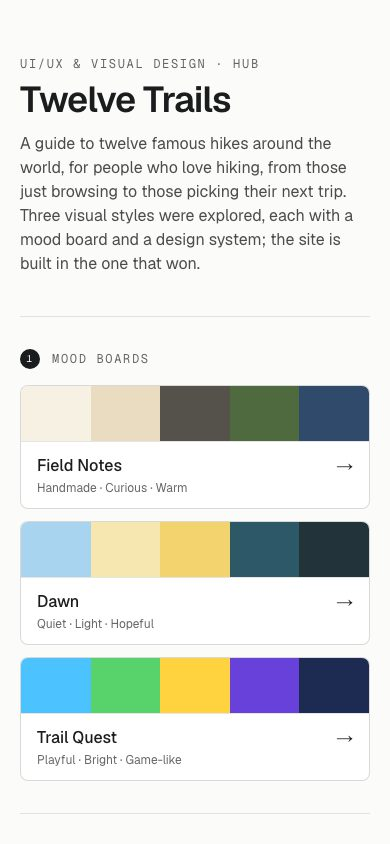
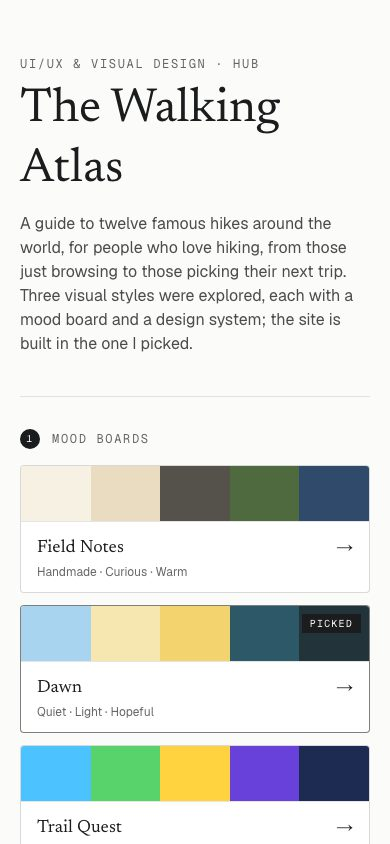
feat: hub leads with the pick and the site; picked tags; compact browser check

diff --git a/src/app/page.tsx b/src/app/page.tsx
@@ -1,12 +1,15 @@
 import Image from "next/image";
 import Link from "next/link";
-import { Caveat, Fredoka, Old_Standard_TT } from "next/font/google";
+import { Caveat, Fredoka, Newsreader, Old_Standard_TT } from "next/font/google";
 import { styles, type StyleId } from "@/data/styles";
 
 // Each style's own display face, so the design-system cards show their "Aa" truthfully.
 const caveat = Caveat({ subsets: ["latin"], weight: ["600"], variable: "--hub-fn" });
 const oldStandard = Old_Standard_TT({ subsets: ["latin"], weight: ["400"], variable: "--hub-dw" });
 const fredoka = Fredoka({ subsets: ["latin"], weight: ["700"], variable: "--hub-tq" });
+// The hub's own voice: a quiet book serif that belongs to none of the three styles, so none is favoured.
+const newsreader = Newsreader({ subsets: ["latin"], weight: ["400", "500"], style: ["normal", "italic"], variable: "--hub-serif" });
+const serif = "font-[family-name:var(--hub-serif)]";
 const FACE: Record<StyleId, string> = {
   "field-notes": "font-[family-name:var(--hub-fn)]",
   dawn: "font-[family-name:var(--hub-dw)]",
@@ -24,12 +27,13 @@ function Stripes({ colors }: { colors: string[] }) {
 }
 
 /** One card shape for every style link, so the three line up: a preview band, the name and arrow, one quiet line. */
-function StyleCard({ href, preview, name, note }: { href: string; preview: React.ReactNode; name: string; note: string }) {
+function StyleCard({ href, preview, name, note, picked = false }: { href: string; preview: React.ReactNode; name: string; note: string; picked?: boolean }) {
   return (
-    <Link href={href} className={card}>
+    <Link href={href} className={`${card} relative ${picked ? "border-black/50" : ""}`}>
+      {picked && <span className="absolute right-2 top-2 z-10 bg-foreground px-2 py-0.5 font-mono text-[10px] uppercase tracking-[0.12em] text-background">Picked</span>}
       {preview}
       <span className="flex items-baseline justify-between gap-3 px-4 pt-3">
-        <span className="whitespace-nowrap font-medium">{name}</span>
+        <span className={`${serif} whitespace-nowrap text-lg`}>{name}</span>
         <span aria-hidden="true" className="transition-transform group-hover:translate-x-0.5">→</span>
       </span>
       <span className="px-4 pb-3 pt-0.5 text-xs text-black/60">{note}</span>
@@ -49,13 +53,13 @@ function Section({ n, title, children }: { n: number; title: string; children: R
   );
 }
 
-// What was checked on the site, and what the check turned up. Kept to what was actually tried.
+// What was checked on the site, one line each. Kept to what was actually tried.
 const CHECKS: [string, string][] = [
-  ["Both widths", "Every page, hub to walk pages, fits at 1440 and at 390 with no sideways scrolling."],
-  ["Keyboard", "On the site, Tab reaches every link and button in reading order, and each shows Dawn's crop marks. Arrow keys move between tabs and along the route map."],
-  ["Search and filters", "Typing a walk, a country or a place on the way (\"Namche\", \"thorsmork\") narrows the cards at once; Clear empties it. Where and how long start on All, show how many walks each choice leaves, and Clear all brings all twelve back."],
-  ["My list", "Adding a walk updates the count on My list in the top bar; My list opens a side panel listing the walks, each with Remove, or an empty state. The list stays while moving between pages; a reload clears it: nothing is stored."],
-  ["Plates viewer", "Enter opens it on the chosen plate, arrow keys move, Esc closes it and focus returns to the print."],
+  ["Both widths", "Every page fits at 1440 and at 390, with no sideways scrolling."],
+  ["Keyboard", "Tab reaches every control in reading order and shows Dawn's crop marks; arrow keys move through tabs and the route map."],
+  ["Search and filters", "\"Namche\" and \"thorsmork\" find their walks; each filter shows how many walks it leaves; Clear all brings back twelve."],
+  ["My list", "Adding a walk lights up My list and its count; the side panel lists and removes walks; a reload clears it."],
+  ["Plates viewer", "Opens on the chosen plate; arrow keys move; Esc closes it and focus returns."],
 ];
 
 const SHOTS: [string, string][] = [
@@ -65,17 +69,20 @@ const SHOTS: [string, string][] = [
 ];
 
 const card =
-  "group flex h-full flex-col overflow-hidden rounded-lg border border-black/15 bg-white transition hover:border-black/40 hover:shadow-sm focus-visible:outline-2 focus-visible:outline-offset-2 focus-visible:outline-foreground active:translate-y-px";
+  "group flex h-full flex-col overflow-hidden rounded-sm border border-black/15 bg-white transition hover:border-black/40 hover:shadow-sm focus-visible:outline-2 focus-visible:outline-offset-2 focus-visible:outline-foreground active:translate-y-px";
+
+const button =
+  "inline-flex items-center gap-2 border border-foreground bg-foreground px-5 py-3 text-sm font-medium text-background transition hover:bg-black focus-visible:outline-2 focus-visible:outline-offset-2 focus-visible:outline-foreground active:translate-y-px";
 
 export default function Hub() {
   return (
-    <main className={`${caveat.variable} ${oldStandard.variable} ${fredoka.variable} mx-auto w-full max-w-3xl px-5 py-14`}>
+    <main className={`${caveat.variable} ${oldStandard.variable} ${fredoka.variable} ${newsreader.variable} mx-auto w-full max-w-4xl px-5 py-14`}>
       <p className="font-mono text-xs uppercase tracking-[0.14em] text-black/60">UI/UX &amp; Visual Design · Hub</p>
-      <h1 className="mt-2 text-4xl font-semibold tracking-tight">The Walking Atlas</h1>
-      <p className="mt-3 max-w-xl text-black/70">
+      <h1 className={`${serif} mt-2 text-5xl leading-tight`}>The Walking Atlas</h1>
+      <p className="mt-3 max-w-2xl text-black/70">
         A guide to twelve famous hikes around the world, for people who love hiking, from those just browsing to those
         picking their next trip. Three visual styles were explored, each with a mood board and a design system; the site is
-        built in the one that won.
+        built in the one I picked.
       </p>
 
       <div className="mt-10">
@@ -83,7 +90,7 @@ export default function Hub() {
           <ul className="grid gap-3 sm:grid-cols-3">
             {styles.map((s) => (
               <li key={s.id}>
-                <StyleCard href={`/mood-boards/${s.id}/`} preview={<Stripes colors={s.swatches} />} name={s.name} note={s.keywords.join(" · ")} />
+                <StyleCard href={`/mood-boards/${s.id}/`} picked={s.id === "dawn"} preview={<Stripes colors={s.swatches} />} name={s.name} note={s.keywords.join(" · ")} />
               </li>
             ))}
           </ul>
@@ -95,12 +102,13 @@ export default function Hub() {
               <li key={s.id}>
                 <StyleCard
                   href={`/design-systems/${s.id}/`}
+                  picked={s.id === "dawn"}
                   name={s.name}
                   note="Colour, type, components, states"
                   preview={
                     <span className="flex h-14 items-center justify-between border-b border-black/10 px-4" style={{ background: s.page }} aria-hidden="true">
                       <span className={`${FACE[s.id]} text-3xl leading-none`} style={{ color: s.ink }}>Aa</span>
-                      <span className="flex gap-1">
+                      <span className="flex gap-1 pr-14">
                         {s.swatches.slice(2, 5).map((c) => (
                           <span key={c} className="h-4 w-4 rounded-full border border-black/10" style={{ background: c }} />
                         ))}
@@ -114,44 +122,41 @@ export default function Hub() {
           <p className="mt-3 text-sm text-black/60">Each one is built from its mood board.</p>
         </Section>
 
-        <Section n={3} title="The site">
-          <Link
-            href="/trails/"
-            className="inline-flex rounded-full bg-foreground px-6 py-3 text-sm font-medium text-background transition hover:bg-black focus-visible:outline-2 focus-visible:outline-offset-2 focus-visible:outline-foreground active:translate-y-px"
-          >
-            Open The Walking Atlas →
-          </Link>
+        <Section n={3} title="My pick, and the site">
+          <div className="grid items-center gap-8 md:grid-cols-[1.25fr_1fr]">
+            <Link href="/trails/" aria-label="Open The Walking Atlas" className="group block border border-black/15 bg-white p-2 transition hover:border-black/40 hover:shadow-md focus-visible:outline-2 focus-visible:outline-offset-2 focus-visible:outline-foreground active:translate-y-px">
+              <Image src="/browser-check/trails-1440.jpg" alt="The Walking Atlas, its first screen at 1440 wide" width={1440} height={900} className="h-auto w-full" />
+            </Link>
+            <div>
+              <p className="font-mono text-xs uppercase tracking-[0.14em] text-black/60">Picked</p>
+              <h3 className={`${serif} mt-1 text-4xl`}>Dawn</h3>
+              <ol className="mt-4 space-y-3 text-black/80">
+                <li>
+                  <span className="font-medium text-foreground">The style and the subject are the same thing.</span> These are old, famous walks, and
+                  photochrom printers photographed four of them around 1900: the Milford Track, Mont Blanc, the West Highland Way and Half Dome. The site
+                  uses those real prints.
+                </li>
+                <li>
+                  <span className="font-medium text-foreground">The photos lead, and it reads quietly.</span> Plenty of space and plain controls let people
+                  take their time, whether they are just browsing or picking their next trip.
+                </li>
+              </ol>
+              <Link href="/trails/" className={`${button} mt-6`}>Open The Walking Atlas <span aria-hidden="true">→</span></Link>
+            </div>
+          </div>
         </Section>
 
-        <Section n={4} title="My pick and why">
-          <p className="text-black/80">
-            <span className="font-medium text-foreground">Dawn.</span> Two reasons:
-          </p>
-          <ol className="mt-3 list-decimal space-y-2 pl-5 text-black/80">
-            <li>
-              <span className="font-medium text-foreground">The style and the subject are the same thing.</span> These are old, famous walks, and photochrom
-              printers photographed four of them around 1900: the Milford Track, Mont Blanc, the West Highland Way and Half Dome. The site uses those
-              real prints.
-            </li>
-            <li>
-              <span className="font-medium text-foreground">The photos lead, and it reads quietly.</span> Pale colours, plenty of space and plain controls
-              let people take their time, whether they are just browsing or picking their next trip.
-            </li>
-          </ol>
-        </Section>
-
-        <Section n={5} title="Browser check">
+        <Section n={4} title="Browser check">
           <p className="text-sm text-black/60">Checked in Chrome at 1440 and 390 wide, and with the keyboard only.</p>
-          <ul className="mt-3 space-y-2 text-black/80">
+          <dl className="mt-3 divide-y divide-black/10 border-y border-black/10 text-sm">
             {CHECKS.map(([what, result]) => (
-              <li key={what} className="grid gap-x-4 sm:grid-cols-[9rem_1fr]">
-                <span className="text-sm font-medium text-foreground">{what}</span>
-                <span>{result}</span>
-              </li>
+              <div key={what} className="grid gap-x-4 py-2 sm:grid-cols-[9rem_1fr]">
+                <dt className="font-medium text-foreground">{what}</dt>
+                <dd className="text-black/75">{result}</dd>
+              </div>
             ))}
-          </ul>
-          <p className="mt-5 text-sm font-medium text-foreground">Screenshots</p>
-          <p className="text-sm text-black/60">The first screen of each page, at 1440 and at 390. Open one to see it full size.</p>
+          </dl>
+          <p className="mt-5 text-sm text-black/60">The first screen of each page, at 1440 and at 390. Open one to see it full size.</p>
           <ul className="mt-3 flex flex-wrap gap-x-6 gap-y-4">
             {SHOTS.map(([file, name]) => (
               <li key={file}>
@@ -164,9 +169,9 @@ export default function Hub() {
                       target="_blank"
                       rel="noreferrer"
                       aria-label={`${name} at ${w} wide, full size`}
-                      className="block rounded border border-black/15 transition hover:border-black/40 focus-visible:outline-2 focus-visible:outline-offset-2 focus-visible:outline-foreground"
+                      className="block border border-black/15 transition hover:border-black/40 focus-visible:outline-2 focus-visible:outline-offset-2 focus-visible:outline-foreground"
                     >
-                      <Image src={`/browser-check/${file}-${w}.jpg`} alt="" width={w === 1440 ? 1440 : 390} height={w === 1440 ? 900 : 844} className="h-28 w-auto rounded" />
+                      <Image src={`/browser-check/${file}-${w}.jpg`} alt="" width={w === 1440 ? 1440 : 390} height={w === 1440 ? 900 : 844} className="h-28 w-auto" />
                     </a>
                   ))}
                 </span>

diff --git a/log.md b/log.md
@@ -80,3 +80,4 @@
 - 我说手机版整体还是太大，组件和文字都是。手机上字号再降一档：标题 40→30、章节 32→24、路线名和数字 20→17、正文 16→15、说明 14→13、小标签 12→11（输入框保持 16px，否则手机浏览器一点就放大）；按钮、筛选标签、开关文字同步缩小，卡片小图 96→80px，首屏照片 340→280px。电脑版不变。对比截图：一屏能多看到一条半路线；路线页三个数字能排在一行。设计系统字号说明同步。
 - 我说手机版首屏的大标题不突出，和上面的小字太接近。原因：上一轮把手机标题缩到 30px，而上面的小标题全大写、字距宽、几乎一样宽。改为手机上大标题 38px（全站唯一主角，所以保留分量），小标题保持 11px 但颜色淡到 80%、字距收窄（对比度仍 6.6:1）。
 - 我说"Twelve Trails"这个名字奇怪，要换。Claude 给了 First Light / Far Paths / The Walking Atlas / Daybreak Walks，我选 The Walking Atlas。全站（hub、网站标题和顶栏、各页标签名、情绪板和设计系统的示例字、README、AGENTS）一起换；网址 dbs-a2.vercel.app 不含名字，不受影响。电脑版大标题分三行，手机上一行放得下。
+- 我说 hub 有点怪。Claude 看整页后指出：最终成果（网站）只是一颗黑色胶囊按钮，"选了哪个、为什么"在它下面且是纯文字，顺序和分量反了；前两部分看不出选了 Dawn；Geist 字体加黑色圆角按钮太像模板；截图里还是旧名字。我同意改：顺序变为 1 情绪板 → 2 设计系统 → 3 我选的 Dawn 和网站（左边网站首屏大截图可点、右边 Dawn 和两条理由加"Open The Walking Atlas →"）→ 4 浏览器检查；两组卡片里 Dawn 加"Picked"标签；hub 自己的标题换成中性的书卷衬线体 Newsreader（不属于三种风格中任何一种），按钮改方形；检查项每条压成一行；截图用新名字重拍（米尔福德电脑版截到照片未加载，重拍并检查画面确有照片）。390/1440 无溢出。
